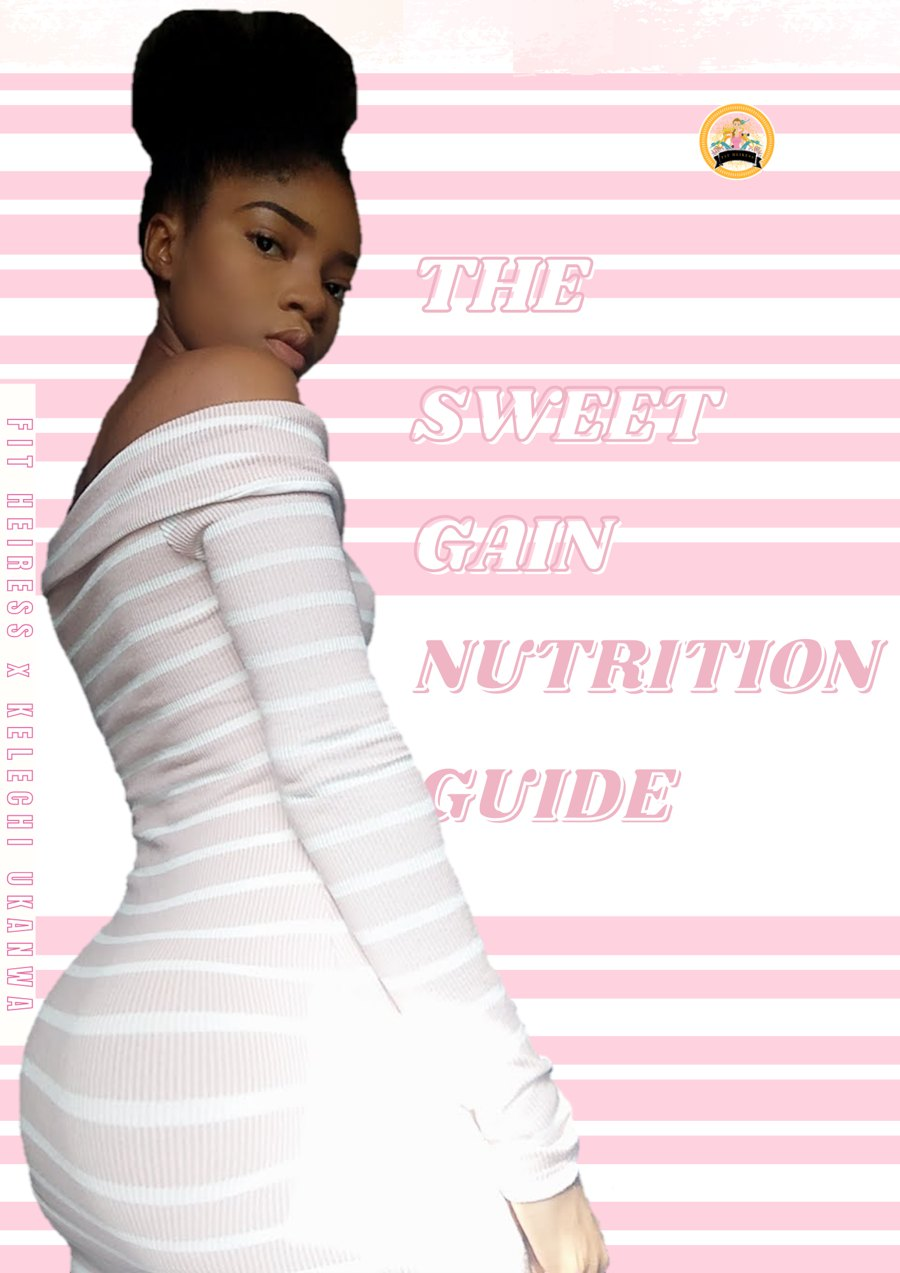
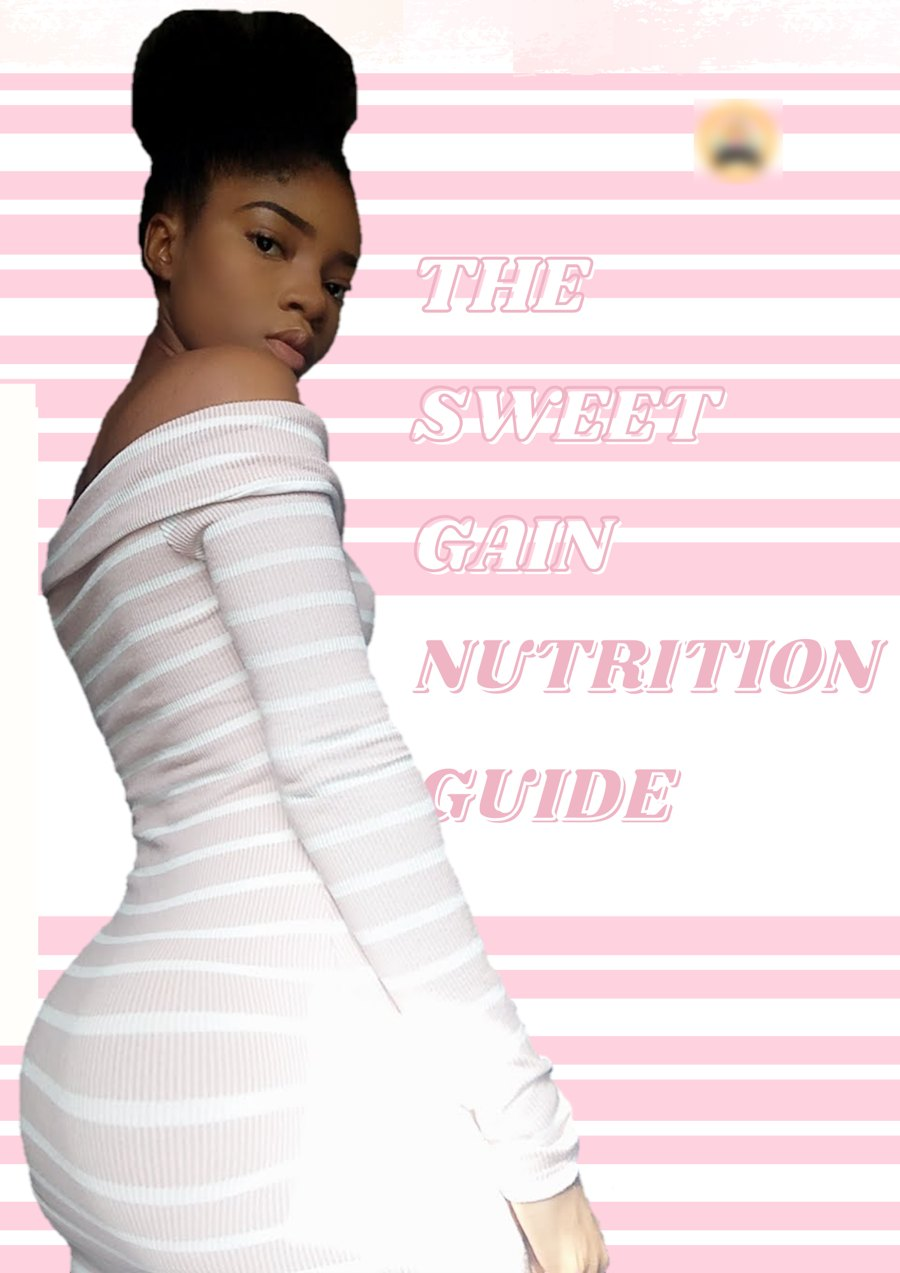
Add headshot, copy-email buttons, anonymise ebook covers, update Canar's role
Claude-Session: https://claude.ai/code/session_01PFegjPD7MABe1F27W3Kx69

Changed region(s): [[0.0, 0.337, 0.0622, 0.7965], [0.7467, 0.0613, 0.8711, 0.1532]]

diff --git a/index.html b/index.html
@@ -11,7 +11,7 @@
 body{margin:0;background:#ffffff}
 a{color:#1f5fbf}a:hover{color:#174a96}
 </style>
-<style>img,video{max-width:100%}@media (max-width:640px){.acc-grid{gap:12px !important}.acc-grid article{flex-basis:calc(50% - 6px) !important}.acc-grid article{padding:14px 10px 16px !important}.acc-grid h3{font-size:15px !important}}</style>
+<style>img,video{max-width:100%}@media (max-width:860px){.hero-photo{order:-1;flex-basis:100% !important;max-width:300px}.hero-row h1{font-size:40px !important}}@media (max-width:640px){.acc-grid{gap:12px !important}.acc-grid article{flex-basis:calc(50% - 6px) !important}.acc-grid article{padding:14px 10px 16px !important}.acc-grid h3{font-size:15px !important}}</style>
 </head>
 <body>
 <div style="font-family: Inter, system-ui, sans-serif; color: #121417; background: #ffffff; width: 100%; line-height: 1.6">
@@ -32,12 +32,18 @@ a{color:#1f5fbf}a:hover{color:#174a96}
 </header>
 
 <section id="top" style="max-width: 1180px; margin: 0 auto; padding: 96px 24px 88px">
+<div class="hero-row" style="display: flex; flex-wrap: wrap; align-items: center; gap: 56px">
+<div style="flex: 1 1 520px; min-width: 0">
 <p style="margin: 0 0 20px; font-size: 15px; font-weight: 600; letter-spacing: 1.2px; text-transform: uppercase; color: #1f5fbf">Executive Assistant · Finance &amp; Operations</p>
-<h1 style="margin: 0; max-width: 900px; font-family: Manrope, Inter, sans-serif; font-weight: 800; font-size: 60px; line-height: 1.08; letter-spacing: -1.5px">I keep founders' finances, operations and brand in order, so they can focus on growth.</h1>
+<h1 style="margin: 0; max-width: 900px; font-family: Manrope, Inter, sans-serif; font-weight: 800; font-size: 54px; line-height: 1.08; letter-spacing: -1.5px">I keep founders' finances, operations and brand in order, so they can focus on growth.</h1>
 <p style="margin: 28px 0 0; max-width: 720px; font-size: 20px; color: #4b5058">Executive Assistant with 4+ years in fraud and payment operations, a BSc in Accounting, and hands-on content skills. Based in Lagos, working with founders on-site and remotely.</p>
 <div style="display: flex; flex-wrap: wrap; gap: 14px; margin-top: 36px">
 <a href="#finance" style="display: inline-flex; align-items: center; min-height: 48px; padding: 0 26px; border-radius: 10px; background: #1f5fbf; color: #ffffff; font-weight: 600; font-size: 16px; text-decoration: none">See the case study</a>
 <a href="mailto:ukanwakelechi1@gmail.com" style="display: inline-flex; align-items: center; min-height: 48px; padding: 0 26px; border-radius: 10px; border: 1.5px solid #c9ccd2; color: #121417; font-weight: 600; font-size: 16px; text-decoration: none">Email me</a>
+<button type="button" class="copy-email" data-email="ukanwakelechi1@gmail.com" style="display: inline-flex; align-items: center; min-height: 48px; padding: 0 20px; border-radius: 10px; border: 0; background: transparent; color: #1f5fbf; font: inherit; font-weight: 600; font-size: 16px; cursor: pointer">Copy email</button>
+</div>
+</div>
+<div class="hero-photo" style="flex: 0 1 360px; min-width: 0"><img src="assets/headshot.jpg" alt="Kelechi Ukanwa" width="800" height="943" style="display: block; width: 100%; height: auto; border-radius: 24px; box-shadow: 0 18px 40px rgba(18,20,23,0.14)"></div>
 </div>
 <div style="display: grid; grid-template-columns: repeat(auto-fit, minmax(240px, 1fr)); gap: 20px; margin-top: 72px; padding-top: 36px; border-top: 1px solid #e6e8ec">
 <div>
@@ -184,7 +190,7 @@ a{color:#1f5fbf}a:hover{color:#174a96}
 <p style="margin: 0; font-size: 14px; font-weight: 600; color: #6a6f78; text-transform: uppercase; letter-spacing: 1px">Client work · Video</p>
 <h3 style="margin: 8px 0 14px; font-family: Manrope, Inter, sans-serif; font-weight: 800; font-size: 32px; letter-spacing: -0.5px">Canar's Closet: launch and grand opening</h3>
 <p style="margin: 0; font-size: 17px; color: #3d424a">A launch-date announcement for a Lagos fashion boutique, edited from the client's own clips and voiceover into a polished 60-second vertical video. Then the grand opening itself: a recap of the day, with guests arriving, shopping and leaving with branded bags.</p>
-<p style="margin: 12px 0 0; font-size: 15px; color: #6a6f78">Role: editing · Tool: CapCut</p>
+<p style="margin: 12px 0 0; font-size: 15px; color: #6a6f78">Role: editing (store launch), filming and editing (grand opening) · Tool: CapCut</p>
 </div>
 </div>
 
@@ -197,8 +203,8 @@ a{color:#1f5fbf}a:hover{color:#174a96}
 <div style="flex: 1 1 200px; background: #f4f6f9; border-radius: 14px; padding: 18px 20px"><p style="margin: 0; font-family: Manrope, Inter, sans-serif; font-weight: 800; font-size: 28px; letter-spacing: -0.5px">200 → 1,800</p><p style="margin: 4px 0 0; font-size: 15px; color: #4b5058">followers on the brand's page overnight</p></div>
 </div>
 <div style="display: grid; grid-template-columns: repeat(auto-fit, minmax(200px, 1fr)); gap: 16px; margin-top: 26px; align-items: center">
-<img src="assets/ebook-gain.jpg" alt="Cover of The Sweet Gain Nutrition Guide ebook" loading="lazy" style="display: block; width: 100%; height: auto; border-radius: 12px; border: 1px solid #e1e4e9; background: #ffffff">
-<img src="assets/ebook-hiit.jpg" alt="Cover of the HIIT It To Lose It Challenge ebook" loading="lazy" style="display: block; width: 100%; height: auto; border-radius: 12px; border: 1px solid #e1e4e9; background: #ffffff">
+<img src="assets/ebook-gain.jpg?v=2" alt="Cover of The Sweet Gain Nutrition Guide ebook" loading="lazy" style="display: block; width: 100%; height: auto; border-radius: 12px; border: 1px solid #e1e4e9; background: #ffffff">
+<img src="assets/ebook-hiit.jpg?v=2" alt="Cover of the HIIT It To Lose It Challenge ebook" loading="lazy" style="display: block; width: 100%; height: auto; border-radius: 12px; border: 1px solid #e1e4e9; background: #ffffff">
 <img src="assets/ebook-contents.jpg" alt="Table of contents page from the nutrition guide" loading="lazy" style="display: block; width: 100%; height: auto; border-radius: 12px; border: 1px solid #e1e4e9; background: #ffffff">
 </div>
 <p style="margin: 14px 0 0; font-size: 15px; color: #6a6f78">Role: research, content, cover and layout design, launch marketing strategy · Tool: Canva</p>
@@ -341,7 +347,8 @@ a{color:#1f5fbf}a:hover{color:#174a96}
 <h2 style="margin: 0; max-width: 820px; font-family: Manrope, Inter, sans-serif; font-weight: 800; font-size: 44px; line-height: 1.12; letter-spacing: -1px">Need an assistant who can handle the money, the calendar and the content?</h2>
 <div style="display: flex; flex-wrap: wrap; gap: 14px; margin-top: 36px">
 <a href="mailto:ukanwakelechi1@gmail.com" style="display: inline-flex; align-items: center; min-height: 48px; padding: 0 26px; border-radius: 10px; background: #ffffff; color: #121417; font-weight: 600; font-size: 16px; text-decoration: none">ukanwakelechi1@gmail.com</a>
-<a href="http://www.linkedin.com/in/kelechiukanwa" style="display: inline-flex; align-items: center; min-height: 48px; padding: 0 26px; border-radius: 10px; border: 1.5px solid #5b616b; color: #ffffff; font-weight: 600; font-size: 16px; text-decoration: none">LinkedIn</a>
+<a href="https://www.linkedin.com/in/kelechiukanwa" target="_blank" rel="noopener" style="display: inline-flex; align-items: center; min-height: 48px; padding: 0 26px; border-radius: 10px; border: 1.5px solid #5b616b; color: #ffffff; font-weight: 600; font-size: 16px; text-decoration: none">LinkedIn</a>
+<button type="button" class="copy-email" data-email="ukanwakelechi1@gmail.com" style="display: inline-flex; align-items: center; min-height: 48px; padding: 0 26px; border-radius: 10px; border: 1.5px solid #5b616b; background: transparent; color: #ffffff; font: inherit; font-weight: 600; font-size: 16px; cursor: pointer">Copy email</button>
 <a href="tel:+2348144492824" style="display: inline-flex; align-items: center; min-height: 48px; padding: 0 26px; border-radius: 10px; border: 1.5px solid #5b616b; color: #ffffff; font-weight: 600; font-size: 16px; text-decoration: none">+234 814 449 2824</a>
 </div>
 <p style="margin: 56px 0 0; font-size: 14px; color: #a9aeb6">Surulere, Lagos · Client figures shared with written consent · Concept pieces are labelled as such</p>
@@ -349,5 +356,6 @@ a{color:#1f5fbf}a:hover{color:#174a96}
 </footer>
 
 </div>
+<script>document.querySelectorAll(".copy-email").forEach(function(b){b.addEventListener("click",function(){var e=b.getAttribute("data-email"),t=b.textContent;function done(){b.textContent="Copied: "+e;setTimeout(function(){b.textContent=t},2500)}if(navigator.clipboard&&window.isSecureContext){navigator.clipboard.writeText(e).then(done,function(){window.prompt("Copy my email:",e)})}else{window.prompt("Copy my email:",e)}})})</script>
 </body>
 </html>

diff --git a/case-study.html b/case-study.html
@@ -94,8 +94,10 @@ a{color:#1f5fbf}a:hover{color:#174a96}
 <div style="display: flex; flex-wrap: wrap; gap: 14px; margin-top: 64px; padding-top: 32px; border-top: 1px solid #e6e8ec">
 <a href="./" style="display: inline-flex; align-items: center; min-height: 48px; padding: 0 26px; border-radius: 10px; border: 1.5px solid #c9ccd2; color: #121417; font-weight: 600; font-size: 16px; text-decoration: none">← Back to portfolio</a>
 <a href="mailto:ukanwakelechi1@gmail.com" style="display: inline-flex; align-items: center; min-height: 48px; padding: 0 26px; border-radius: 10px; background: #1f5fbf; color: #ffffff; font-weight: 600; font-size: 16px; text-decoration: none">Email me</a>
+<button type="button" class="copy-email" data-email="ukanwakelechi1@gmail.com" style="display: inline-flex; align-items: center; min-height: 48px; padding: 0 20px; border-radius: 10px; border: 0; background: transparent; color: #1f5fbf; font: inherit; font-weight: 600; font-size: 16px; cursor: pointer">Copy email</button>
 </div>
 </article>
 </div>
+<script>document.querySelectorAll(".copy-email").forEach(function(b){b.addEventListener("click",function(){var e=b.getAttribute("data-email"),t=b.textContent;function done(){b.textContent="Copied: "+e;setTimeout(function(){b.textContent=t},2500)}if(navigator.clipboard&&window.isSecureContext){navigator.clipboard.writeText(e).then(done,function(){window.prompt("Copy my email:",e)})}else{window.prompt("Copy my email:",e)}})})</script>
 </body>
 </html>
